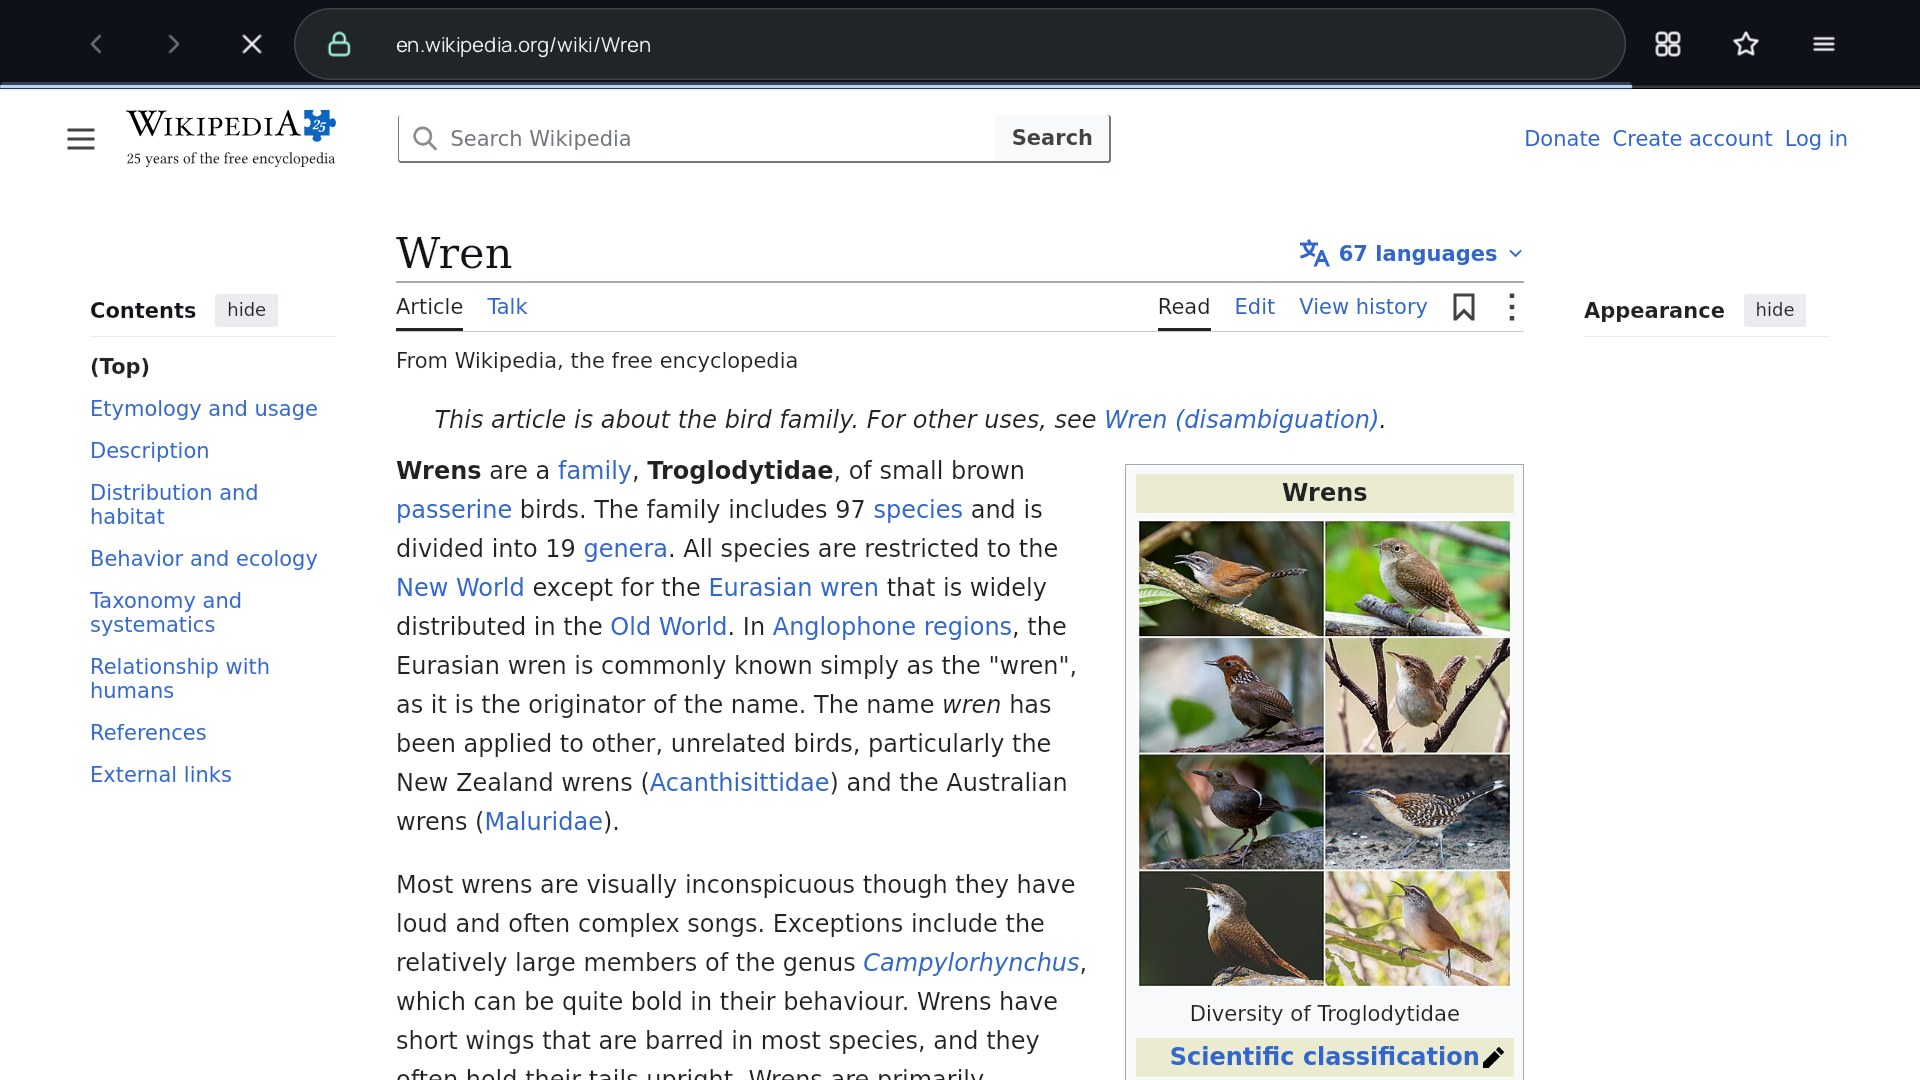
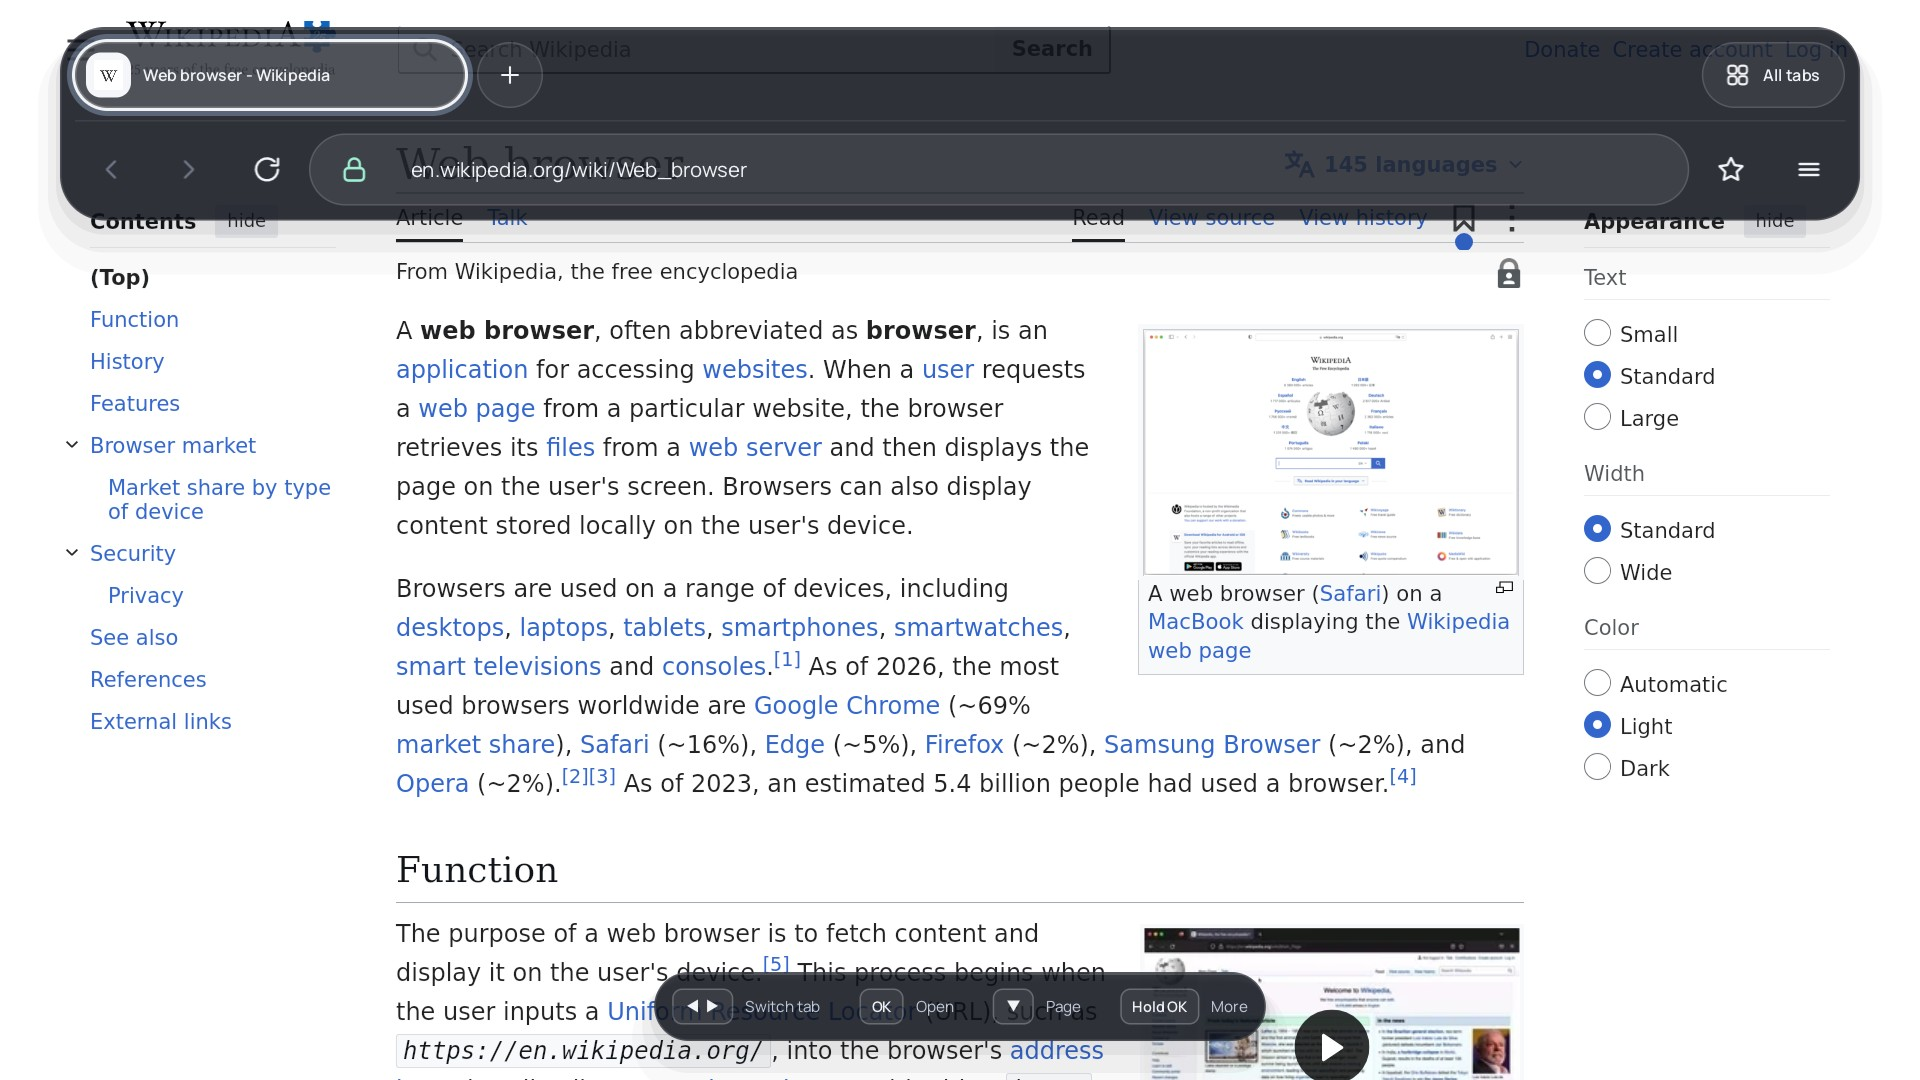
README: keep the original screenshots for now
Restores docs/screenshots/home.jpg and browsing.jpg (and the browsing
caption) from before 768fcc4, at the user's request.

Claude-Session: https://claude.ai/code/session_01R7PfuouRCCM1xz6fx8HaLe

diff --git a/README.md b/README.md
@@ -8,7 +8,7 @@ the arrows, OK and Back of any LG remote.
 
 | | |
 |---|---|
-| ![Home page](docs/screenshots/home.jpg) **Home**: search, shortcuts, recent pages, open tabs | ![Browsing](docs/screenshots/browsing.jpg) **Browsing**: a slim toolbar at the top, the page below it |
+| ![Home page](docs/screenshots/home.jpg) **Home**: search, shortcuts, recent pages, open tabs | ![Browsing](docs/screenshots/browsing.jpg) **Browsing**: ▲ at the top of a page shows the tabs and the toolbar |
 | ![Quick actions](docs/screenshots/quick-actions.jpg) **Hold OK**: quick actions and page zoom | ![Side panel](docs/screenshots/side-panel.jpg) **Menu**: bookmarks, history, zoom, settings |
 
 ## Features
